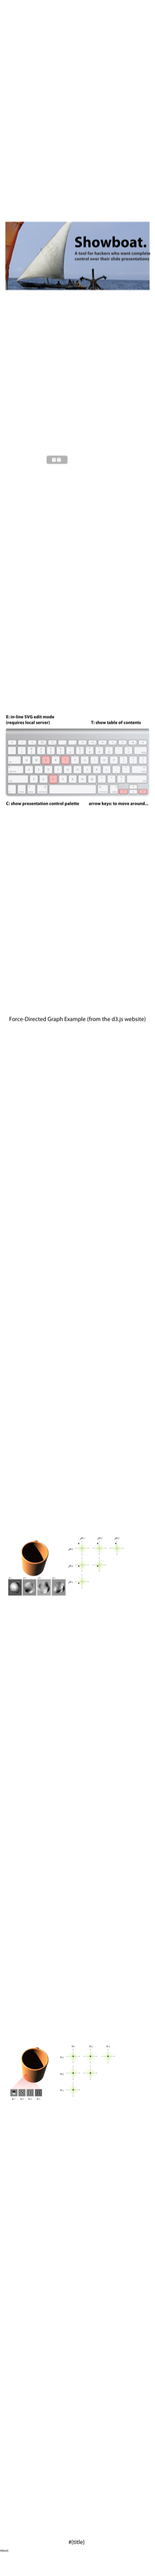
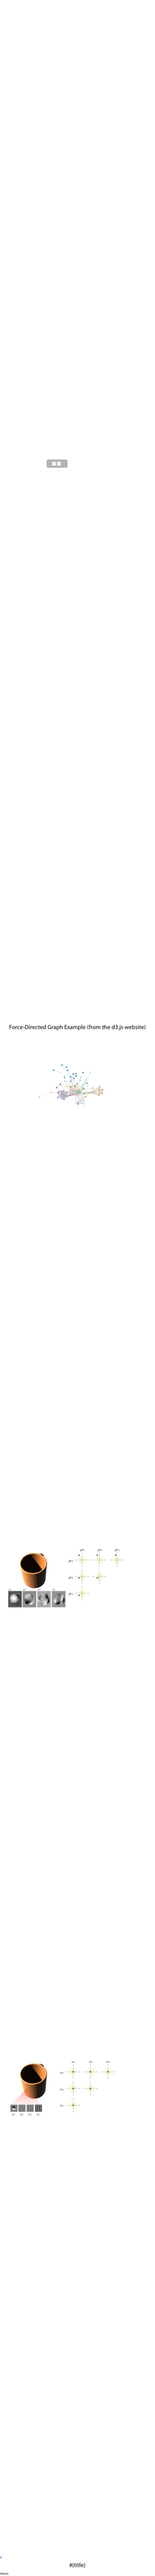
Local data for d3

diff --git a/scripts/force.js b/scripts/force.js
@@ -6,7 +6,7 @@ var vis = d3.select("#chart").append("svg")
     .attr("width", w)
     .attr("height", h);
 
-d3.json("http://mbostock.github.com/d3/ex/miserables.json", function(json) {
+d3.json("data/miserables.json", function(json) {
   var force = d3.layout.force()
       .charge(-120)
       .linkDistance(30)
